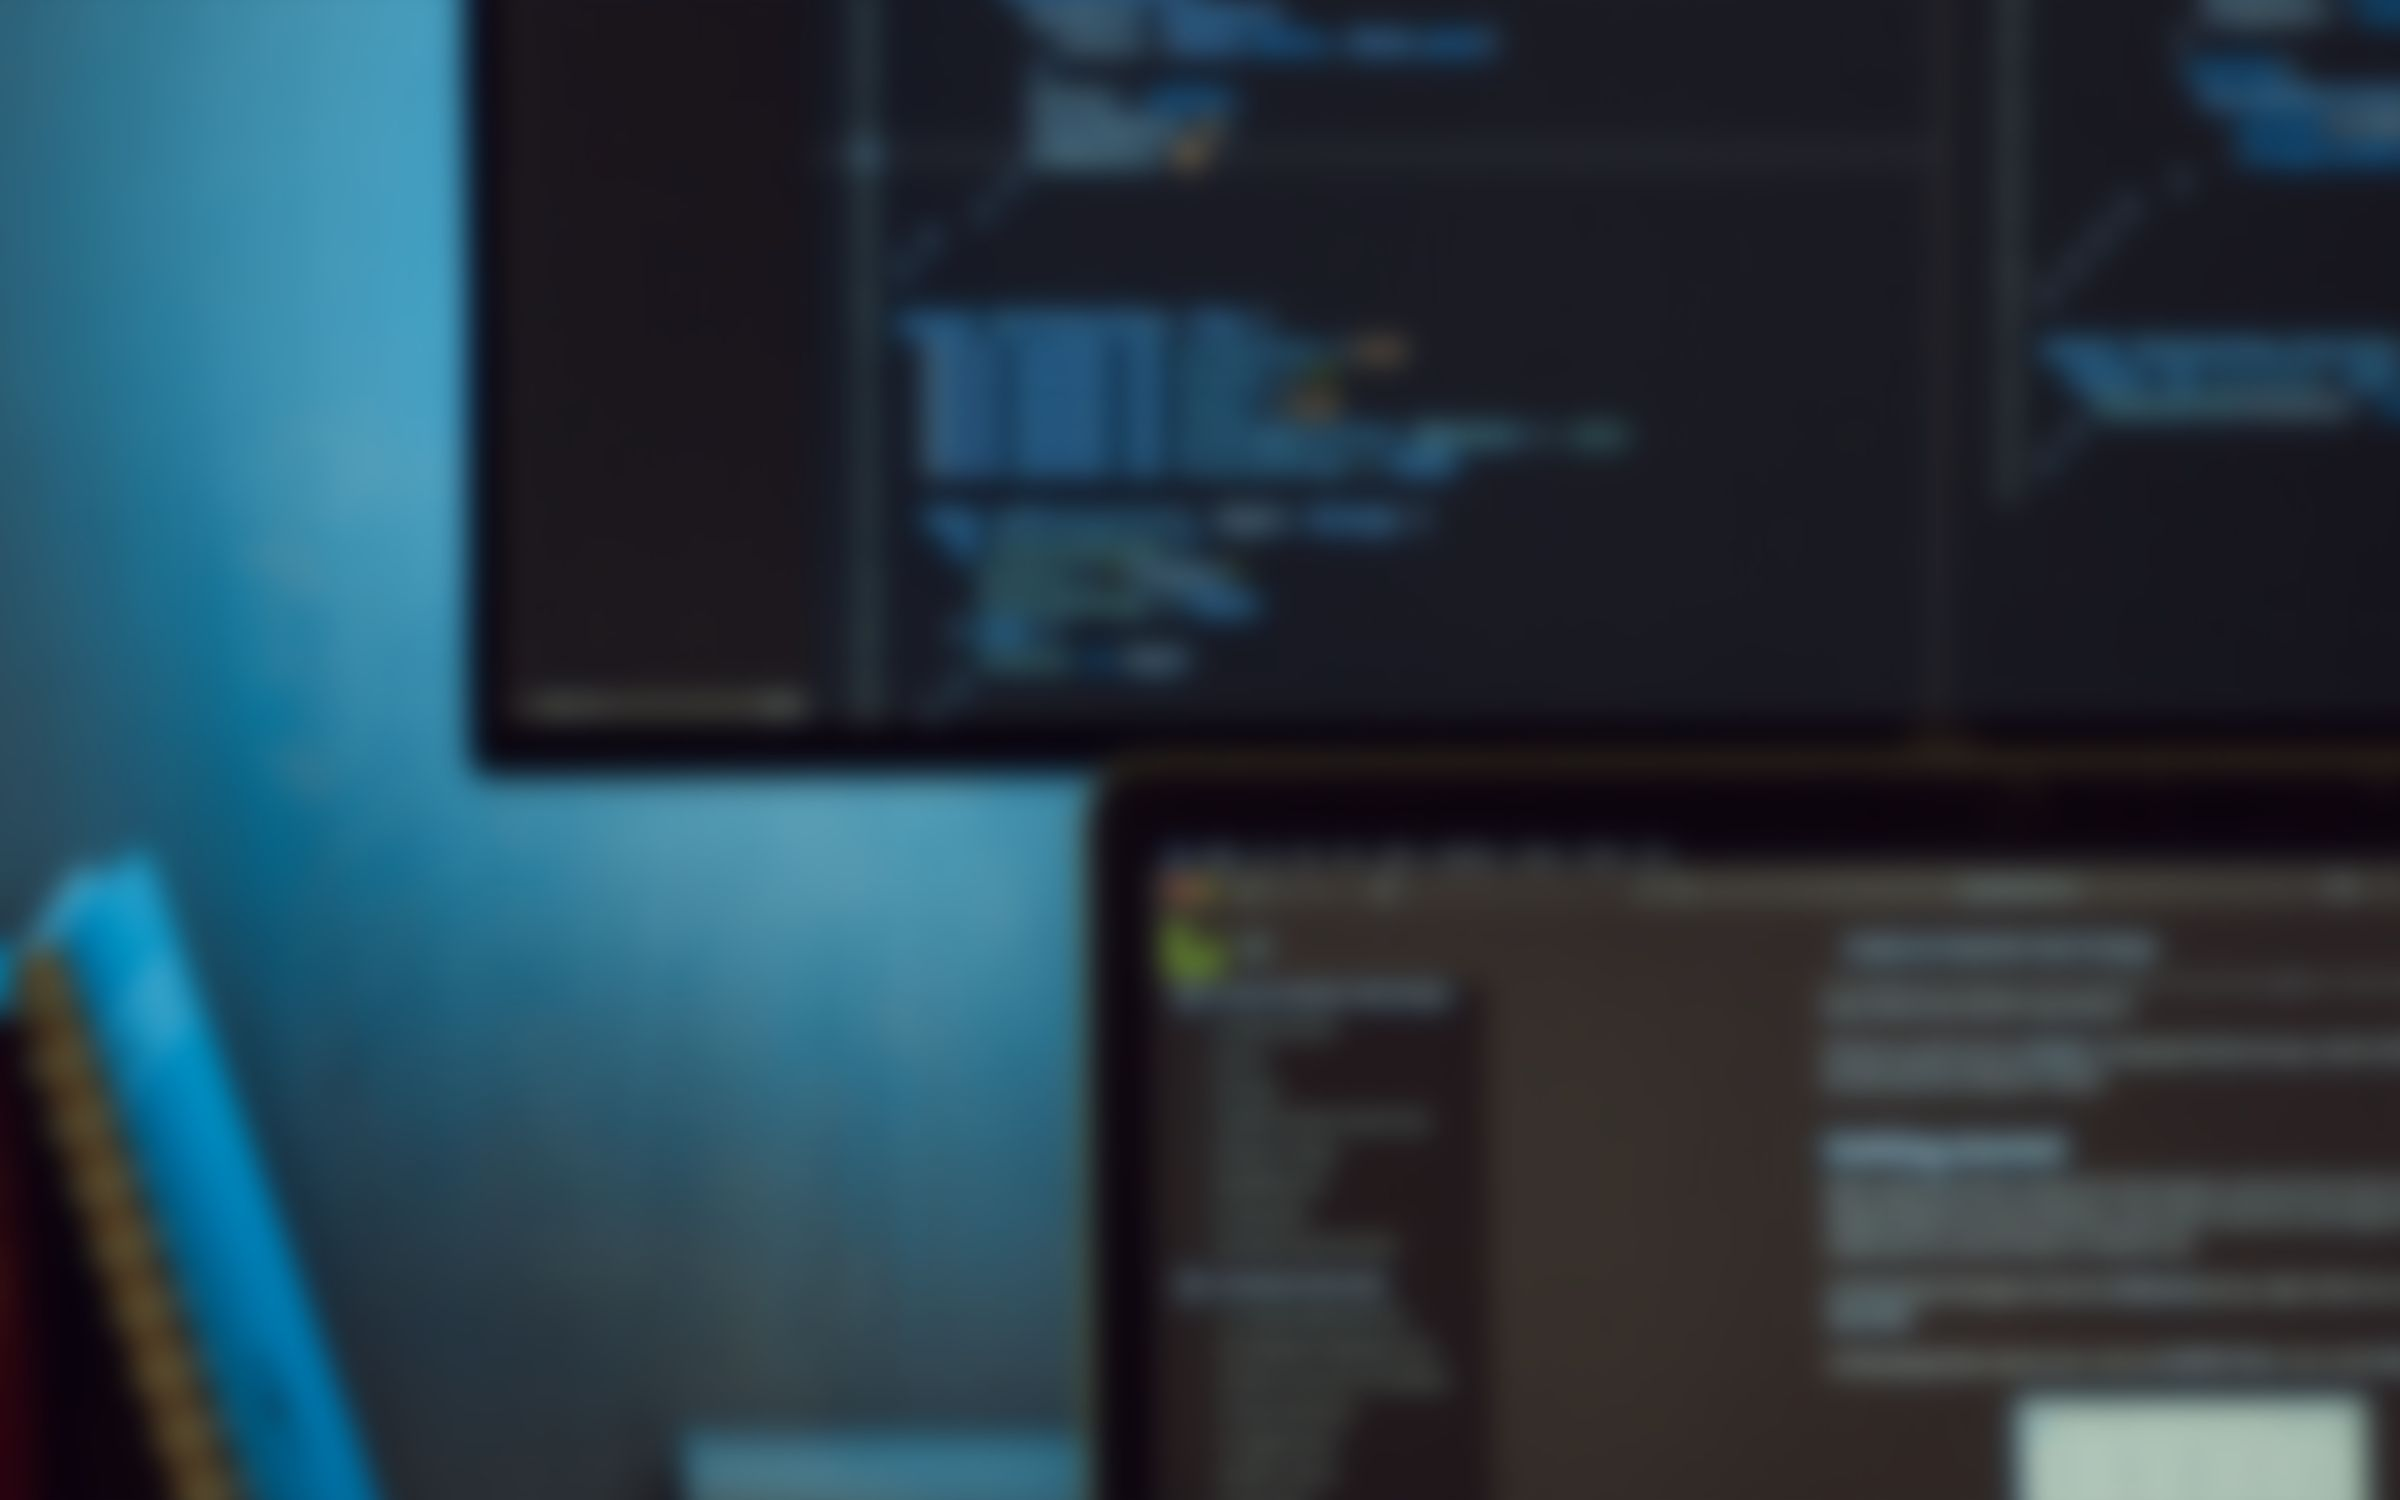
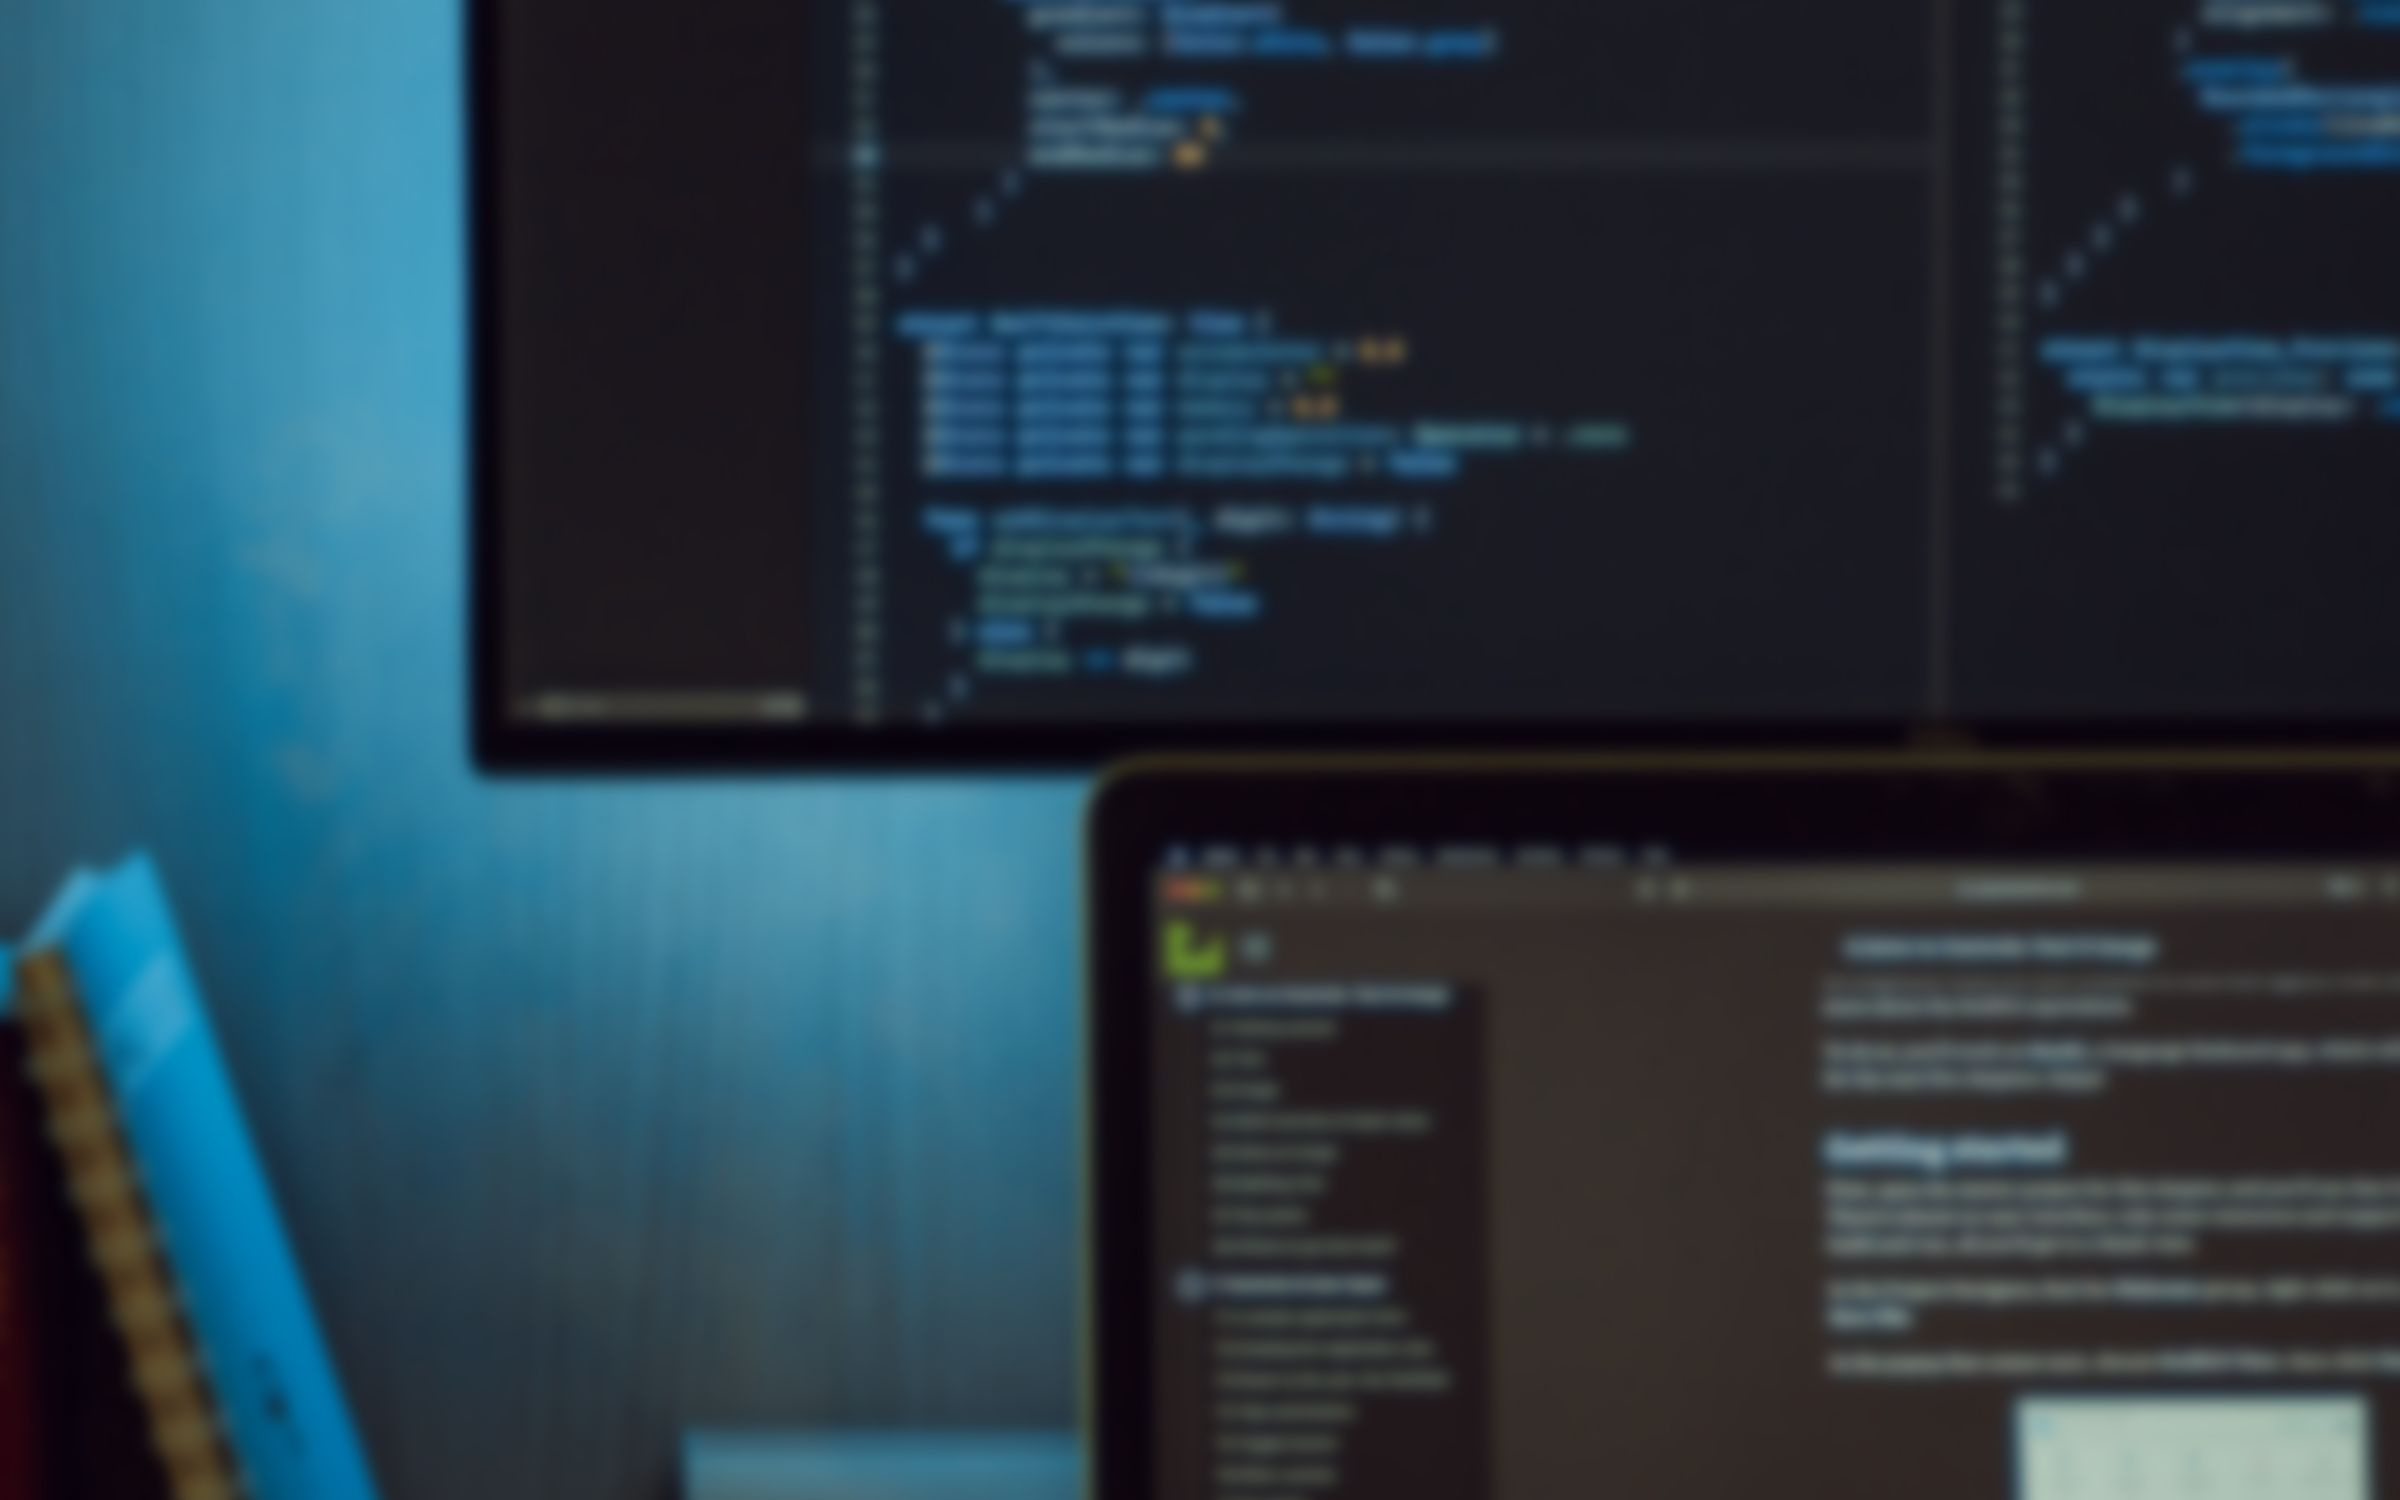
style: ajusta desfoque do fundo do hero (8px no PC, 4px no celular)

diff --git a/app/page.js b/app/page.js
@@ -1,6 +1,6 @@
 "use client";
 
-import Image from "next/image";
+import Image, { getImageProps } from "next/image";
 import Link from "next/link";
 import { siInstagram } from "simple-icons";
 import { useState } from "react";
@@ -29,6 +29,9 @@ const homepageTechnologies = technologyGroups.flatMap((group) => group.items);
 
 // Opções de fundo do hero (em /public/hero): "codigo-monitor-desfocado" (em uso: sem texto legível atrás do título), "codigo-monitor", "dev-noturno" ou "setup-escuro".
 const heroBackground = "/hero/codigo-monitor-desfocado.jpg";
+// No celular (até 760px) usa um recorte do centro com menos desfoque.
+const heroBackgroundMobile = "/hero/codigo-monitor-desfocado-mobile.jpg";
+const { props: heroBackgroundProps } = getImageProps({ src: heroBackground, alt: "", fill: true, sizes: "100vw" });
 
 export default function Home() {
   const [lightMode, setLightMode] = useState(false);
@@ -46,7 +49,10 @@ export default function Home() {
 
       <main>
         <section className={styles.hero} id="inicio" aria-labelledby="hero-title">
-          <Image className={styles.heroBackground} src={heroBackground} alt="" fill preload sizes="100vw" />
+          <picture className={styles.heroPicture}>
+            <source media="(max-width: 760px)" srcSet={heroBackgroundMobile} />
+            <img {...heroBackgroundProps} alt="" className={styles.heroBackground} fetchPriority="high" />
+          </picture>
           <span className={styles.heroShade} aria-hidden="true" />
           <div className={styles.heroCopy}><p className={styles.eyebrow}><span /> Cauã · desenvolvedor</p><RevealText as="h1" id="hero-title" label="Transformo ideias e problemas de negócio em soluções digitais." lines={["Transformo ideias e", "problemas de negócio em", <em key="solution">soluções digitais.</em>]} /><p className={styles.heroText}>Desenvolvimento web, automação e dados para deixar negócios mais simples, conectados e eficientes.</p><div className={styles.heroActions}><a className={styles.buttonPrimary} href="#contato">Falar sobre um projeto <span aria-hidden="true">↗</span></a><a className={styles.textLink} href="#projetos">Ver projetos <span aria-hidden="true">↓</span></a></div></div>
           <div className={styles.heroVisual} aria-label="Foto de perfil de Cauã"><div className={styles.visualGrid} aria-hidden="true" /><div className={styles.heroCircuit} aria-hidden="true"><span /><span /><span /></div><div className={styles.avatarFrame}><Image className={styles.profileImage} src="/foto-perfil.jpg" alt="Cauã usando fones de ouvido" fill preload sizes="(max-width: 760px) 300px, 360px" /></div></div>

diff --git a/app/page.module.css b/app/page.module.css
@@ -50,6 +50,7 @@
 .headerCta:hover, .buttonPrimary:hover, .contactButton:hover { color: var(--on-accent); background: color-mix(in srgb, var(--vermilion) 82%, #fff); transform: translateY(-2px); }
 
 .hero { position: relative; z-index: 1; isolation: isolate; overflow: hidden; display: grid; grid-template-columns: 1.25fr 0.75fr; align-items: center; gap: 48px; min-height: min(880px, calc(100svh - 24px)); margin: 12px; padding: 150px max(20px, calc((100% - 1180px) / 2 - 12px)) 90px; border-radius: 32px; color: var(--paper); background: var(--midnight-ink); }
+.heroPicture { position: absolute; z-index: -2; inset: 0; }
 .heroBackground { z-index: -2; object-fit: cover; object-position: center; will-change: transform; backface-visibility: hidden; }
 .heroShade { position: absolute; z-index: -1; inset: 0; background: linear-gradient(90deg, rgb(var(--midnight-ink-rgb) / 0.96) 0%, rgb(var(--midnight-ink-rgb) / 0.84) 48%, rgb(var(--midnight-ink-rgb) / 0.58) 100%), linear-gradient(0deg, rgb(var(--midnight-ink-rgb) / 0.75), transparent 45%); pointer-events: none; }
 .heroCopy { position: relative; z-index: 1; will-change: transform; }
